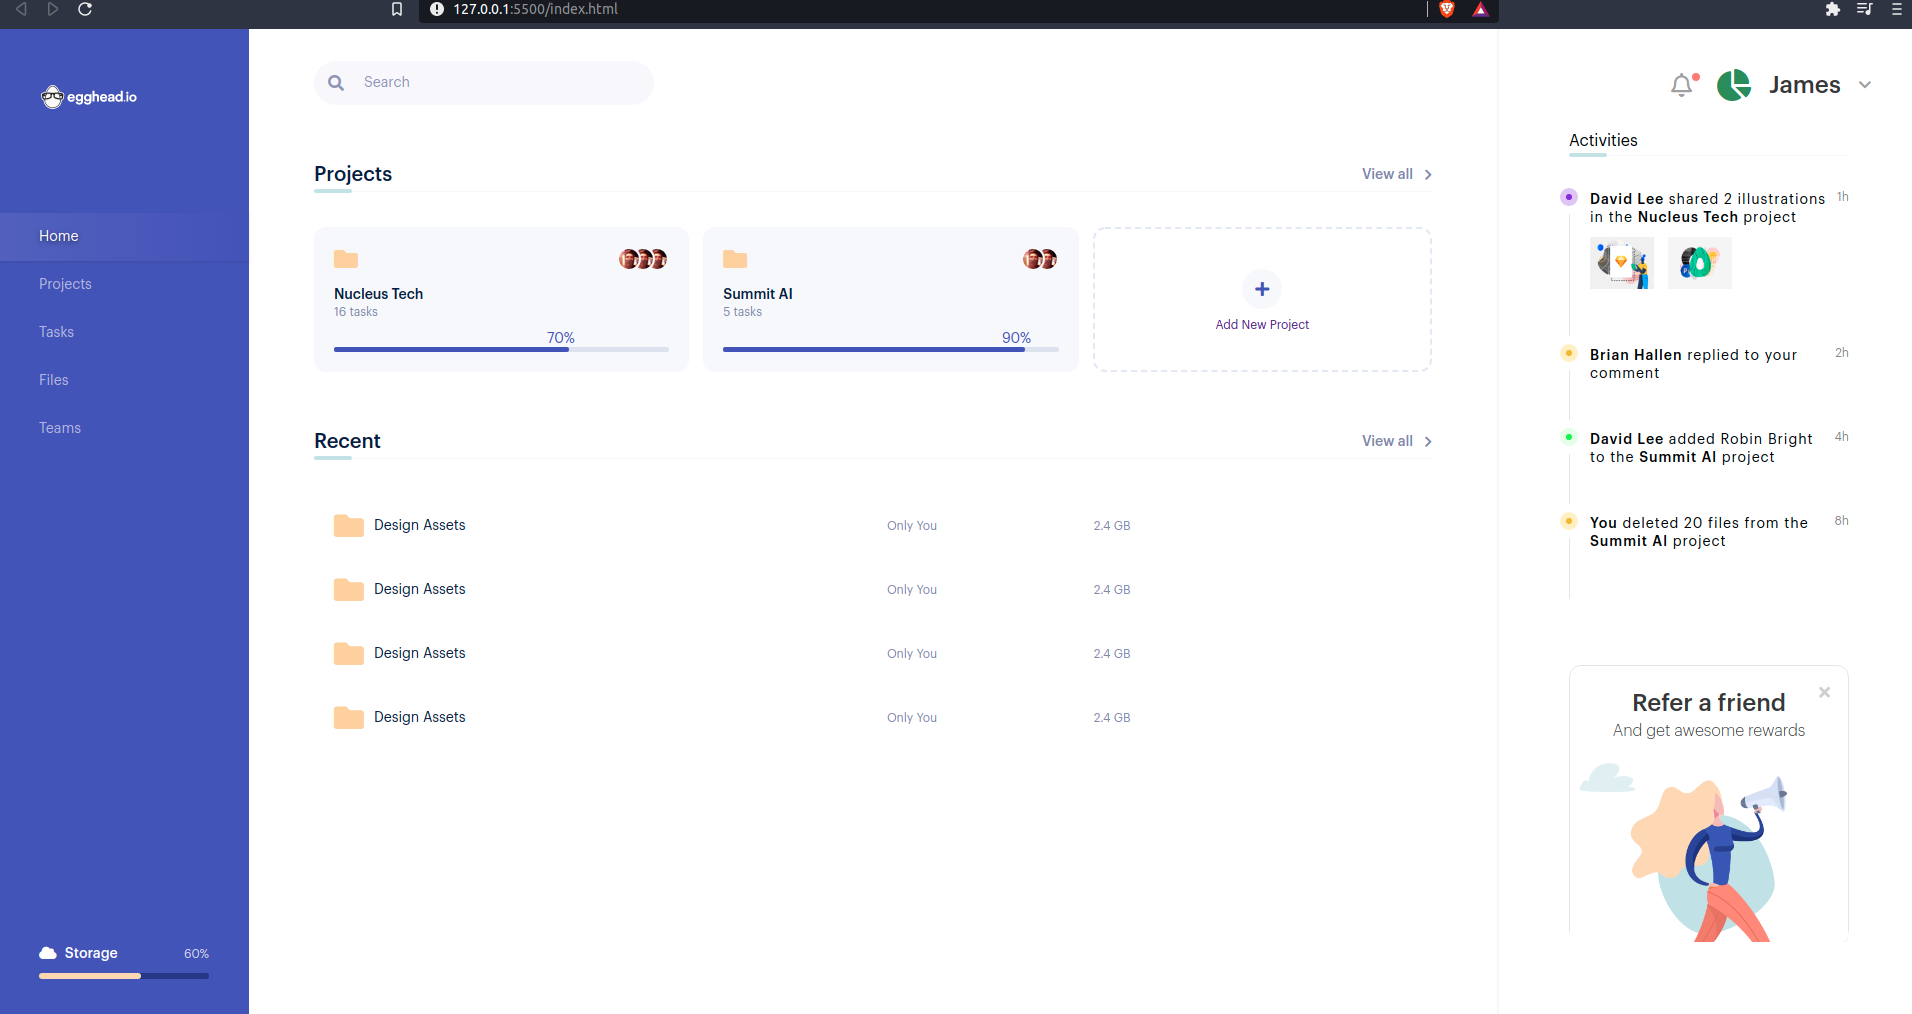
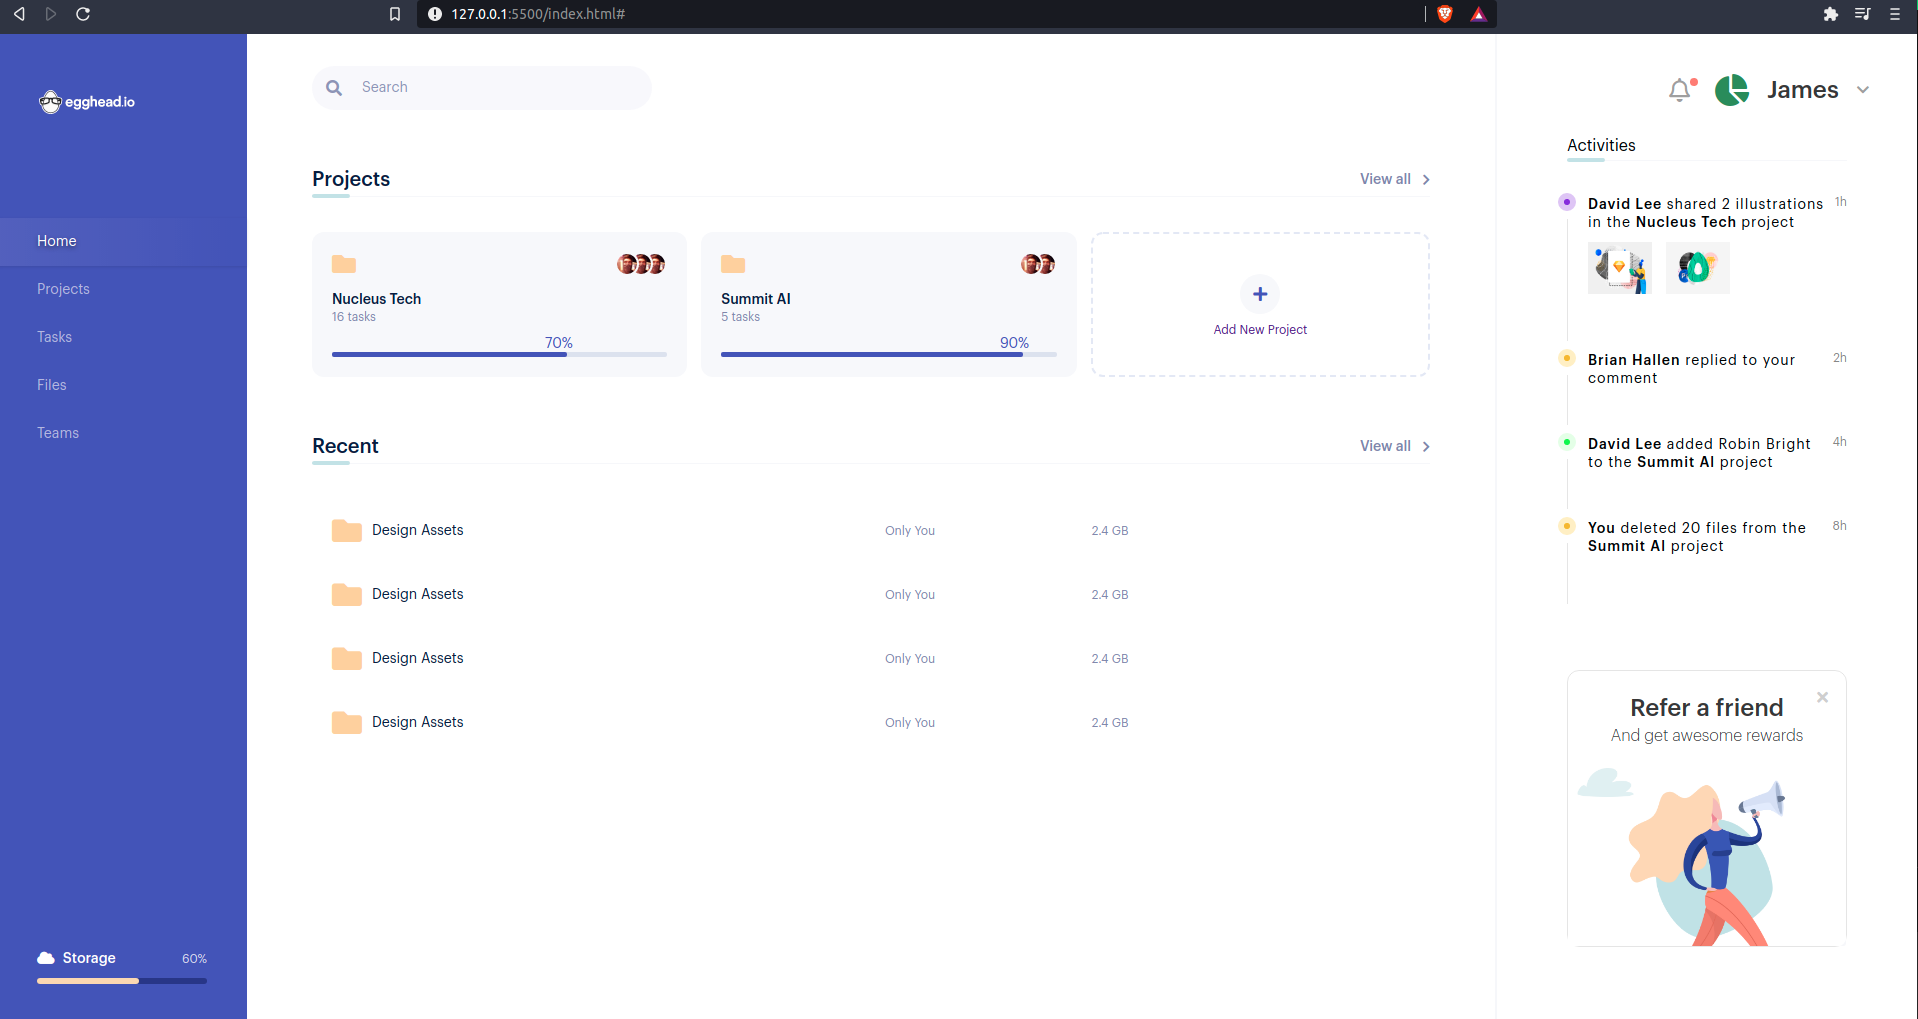
image of finish project is added <basitDashboard>

diff --git a/basitDashboard/index.html b/basitDashboard/index.html
@@ -272,6 +272,7 @@
                     <div class="coin-title">Refer a friend</div>
                     <div class="coin-subtitle">And get awesome rewards</div>
                     <img src="../img/img3.png" class="coin-image"></img>
+
                 </div>
 
             </div>

diff --git a/basitDashboard/css/style.css b/basitDashboard/css/style.css
@@ -606,3 +606,7 @@ body{
     font-weight: 300;
     color: rgba(0, 0, 0, .8);
 }
+
+.rightbar .inner .coin-info .coin-image{
+    overflow: hidden;
+}
